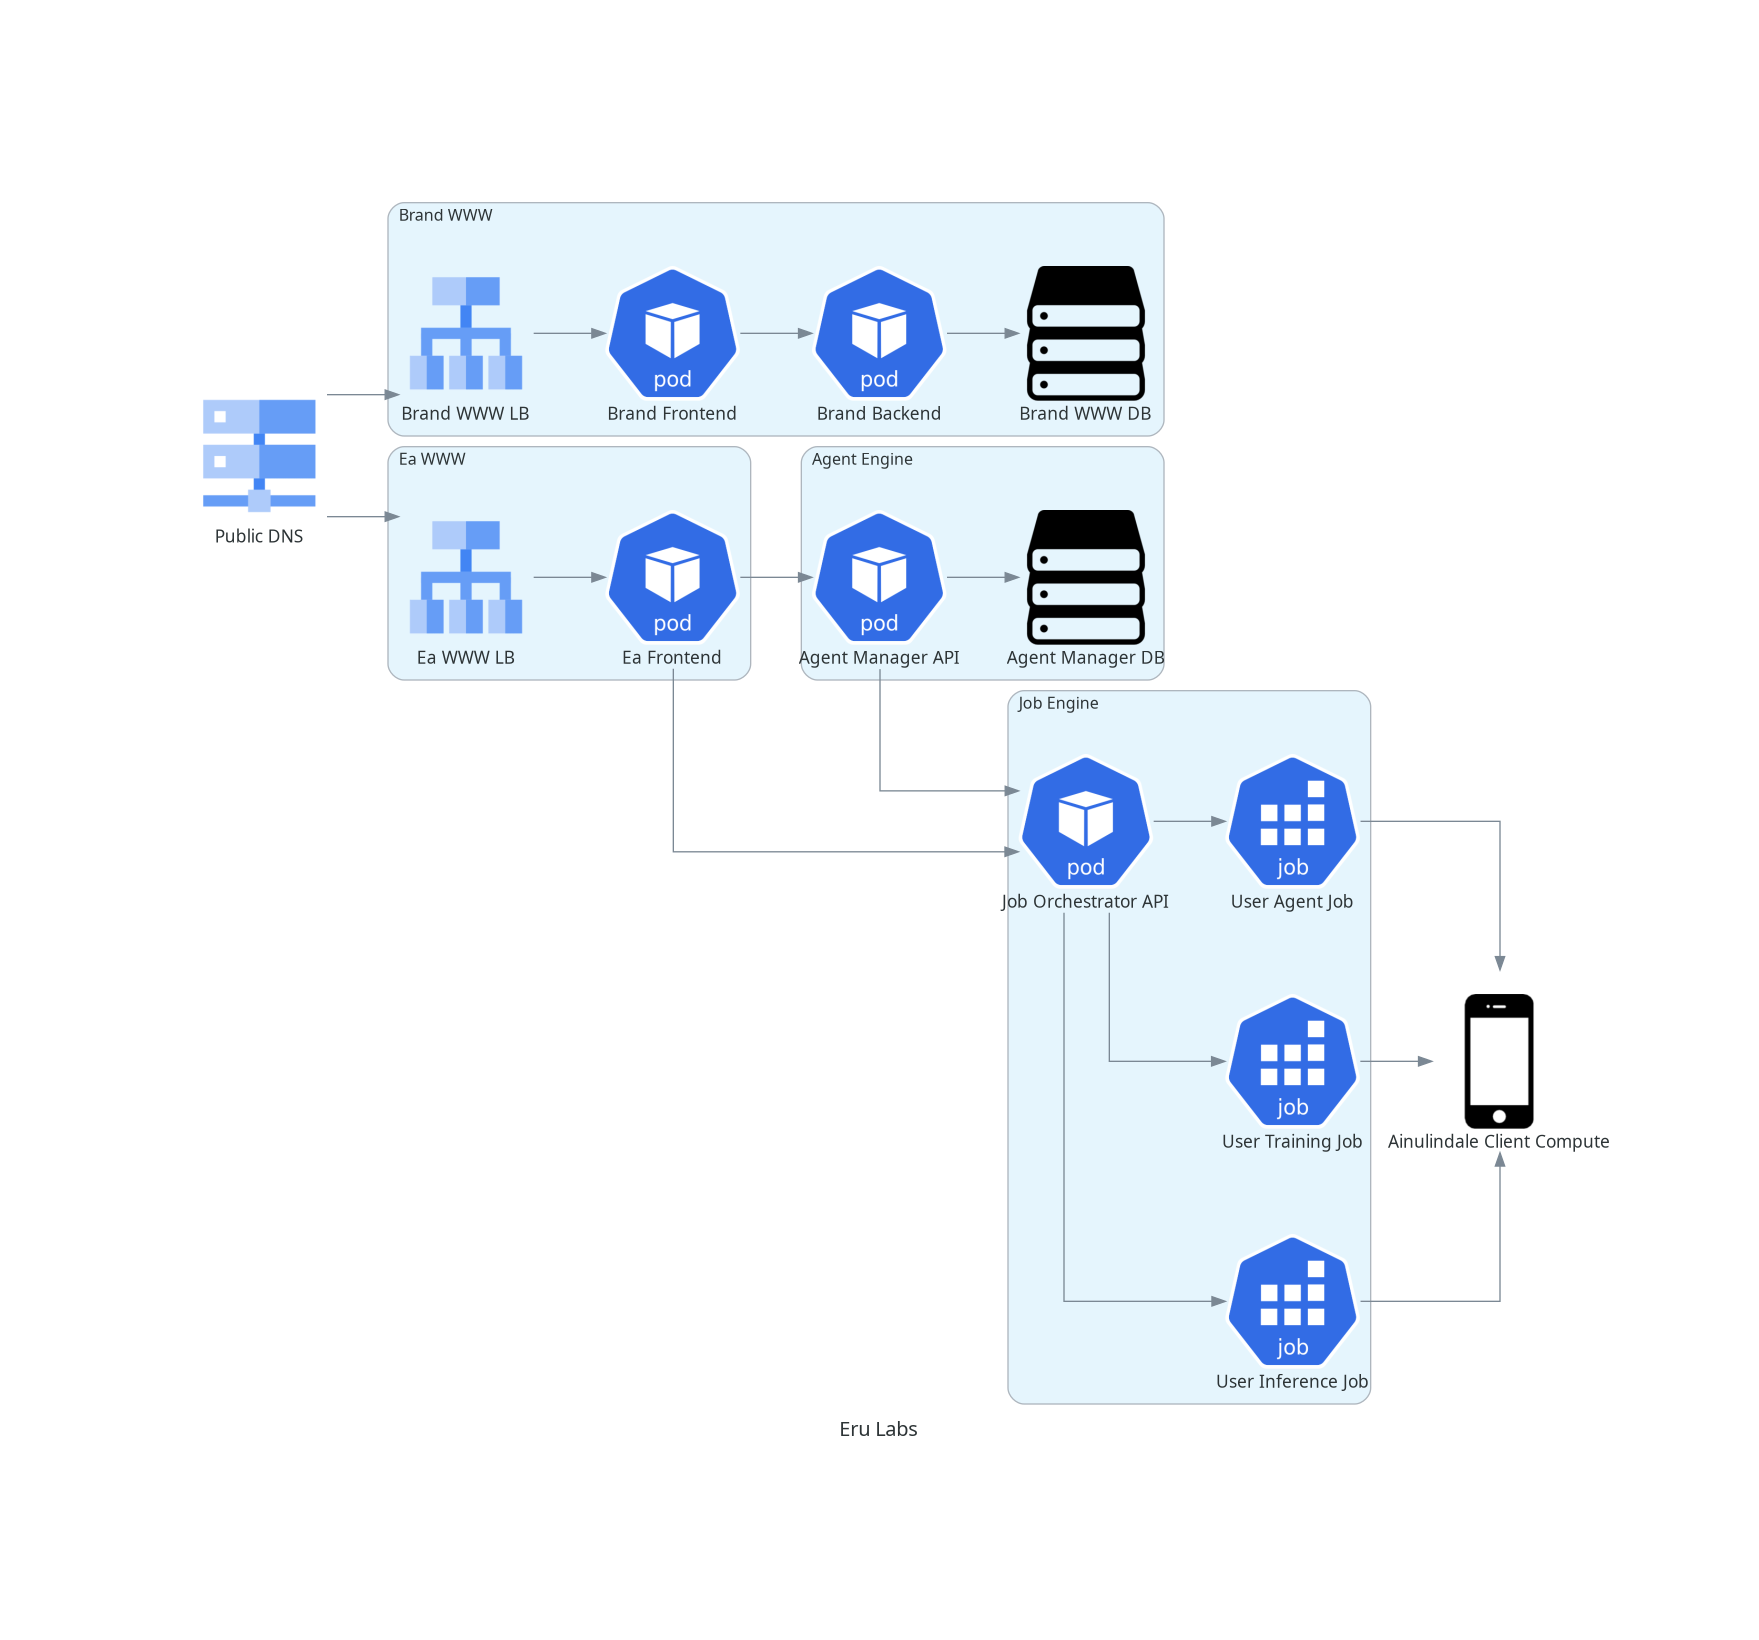
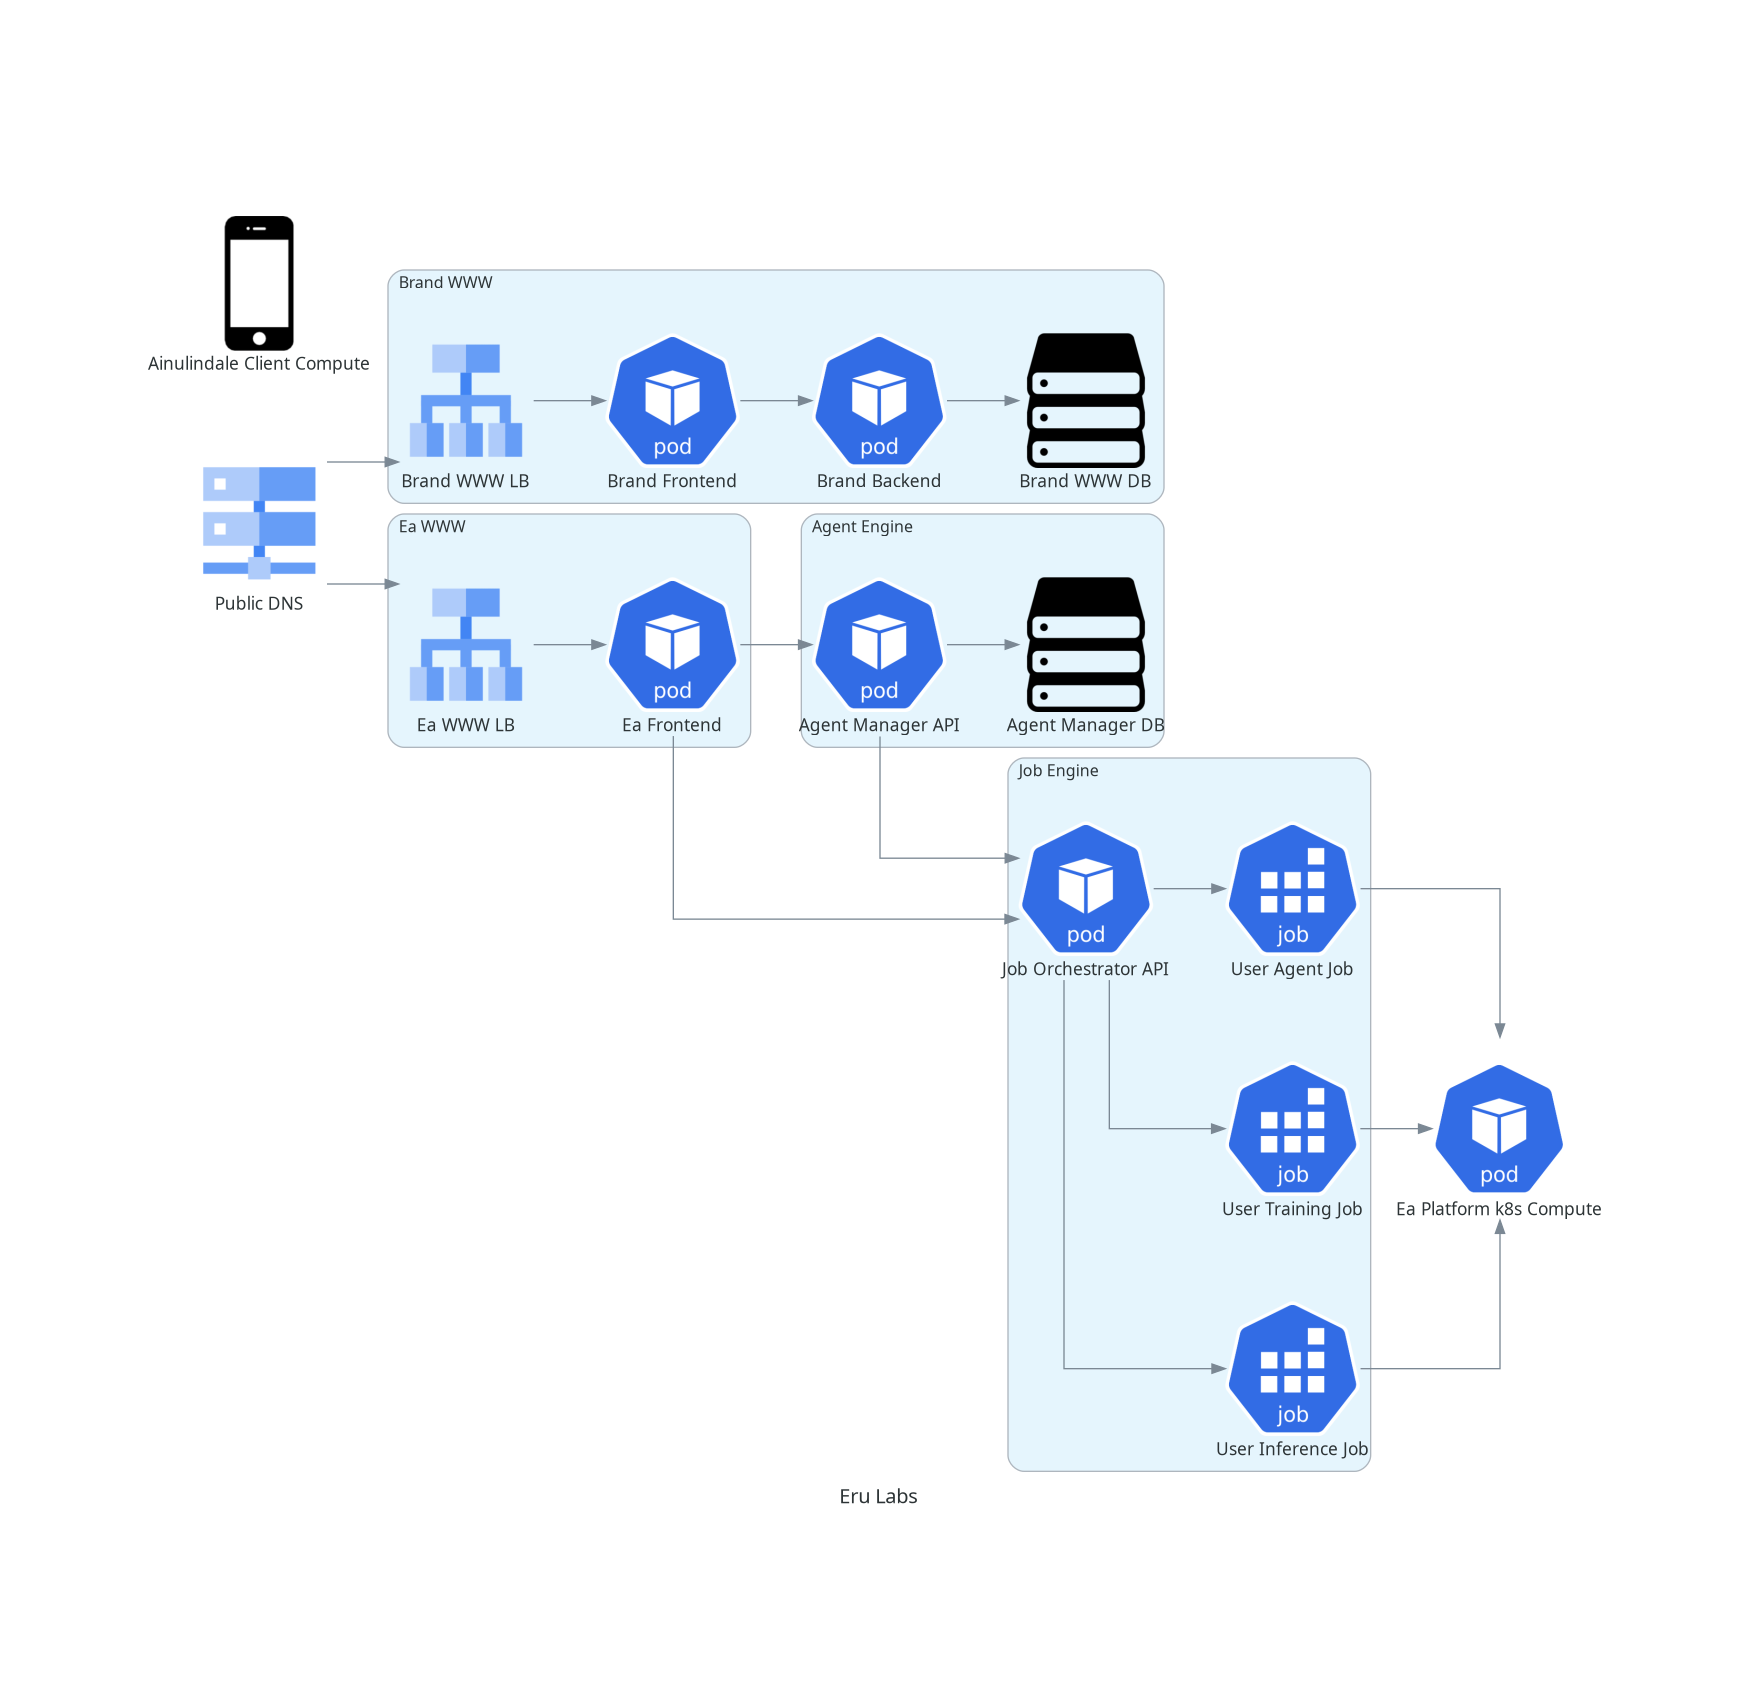
update diagram for current state

Changed region(s): [[0.0921, 0.1244, 0.921, 0.7152], [0.5833, 0.7463, 0.7982, 0.8707], [0.4912, 0.8707, 0.5219, 0.9018]]

diff --git a/docs/diagrams/gen-arch.py b/docs/diagrams/gen-arch.py
@@ -11,6 +11,7 @@ with Diagram("Eru Labs", show=False):
     dns = DNS("Public DNS")
     
     ainuClients = Mobile("Ainulindale Client Compute")
+    k8sCompute = Pod("Ea Platform k8s Compute")
 
     # Brand www
     with Cluster("Brand WWW"):
@@ -32,8 +33,10 @@ with Diagram("Eru Labs", show=False):
         eaJobInf = Job("User Inference Job")
         eaJobTrn = Job("User Training Job")
         eaJobAgt = Job("User Agent Job")
-        eaFrontend >> eaJobOrchestrator >> [eaJobInf, eaJobTrn, eaJobAgt] >> ainuClients
-    
+        eaFrontend >> eaJobOrchestrator >> [eaJobInf, eaJobTrn, eaJobAgt] >> k8sCompute
+        # Future state
+        # eaFrontend >> eaJobOrchestrator >> [eaJobInf, eaJobTrn, eaJobAgt] >> ainuClients
+
     # Ea Agent Engine
     with Cluster("Agent Engine"):
         eaAgentManager = Pod("Agent Manager API")
